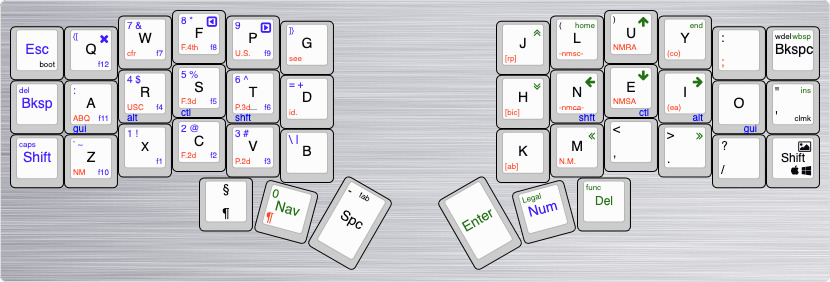
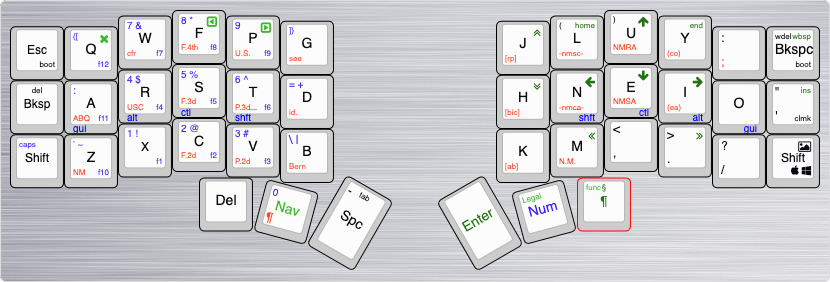
tweaks to weak thumb keys

diff --git a/keymap.c b/keymap.c
@@ -110,7 +110,7 @@ const uint16_t PROGMEM keymaps[][MATRIX_ROWS][MATRIX_COLS] = {
   //|--------+--------+--------+--------+--------+--------|                    |--------+--------+--------+--------+--------+--------|
        DZ_OSS,    KC_Z,    KC_X,    KC_C,    KC_V,    KC_B,                         KC_K,    KC_M, KC_COMM,  KC_DOT, KC_SLSH,  DZ_OSS,
   //|--------+--------+--------+--------+--------+--------+--------|  |--------+--------+--------+--------+--------+--------+--------|
-                                        PARASEC,MO(_NAV),  KC_SPC,     KC_ENT,MO(_NUM), KC_DEL
+                                           KC_DEL,MO(_NAV),  KC_SPC,     KC_ENT,MO(_NUM),PARASEC
                                       //`--------------------------'  `--------------------------'
 
   ),
@@ -123,7 +123,7 @@ const uint16_t PROGMEM keymaps[][MATRIX_ROWS][MATRIX_COLS] = {
   //|--------+--------+--------+--------+--------+--------|                    |--------+--------+--------+--------+--------+--------|
        DZ_OSS,    KC_Z,    KC_X,    KC_C,    KC_V,    KC_B,                         KC_N,    KC_M, KC_COMM,  KC_DOT, KC_SLSH, KC_MINS,
   //|--------+--------+--------+--------+--------+--------+--------|  |--------+--------+--------+--------+--------+--------+--------|
-                                           _______,MO(_NAV),  KC_SPC,     KC_ENT,MO(_NUM), _______
+                                           _______,MO(_NAV), KC_SPC,     KC_ENT,MO(_NUM), _______
                                       //`--------------------------'  `--------------------------'
 
   ),
@@ -157,9 +157,9 @@ const uint16_t PROGMEM keymaps[][MATRIX_ROWS][MATRIX_COLS] = {
   //|--------+--------+--------+--------+--------+--------|                    |--------+--------+--------+--------+--------+--------|
       XXXXXXX,  DZ_ABQ,  DZ_USC,  DZ_F3D,  DZ_P3D,  DZ_ID2,                       DZ_BIC, DZ_NMCA, DZ_NMSA,   DZ_EA, XXXXXXX, DZ_RQOT,
   //|--------+--------+--------+--------+--------+--------|                    |--------+--------+--------+--------+--------+--------|
-       DZ_OSS,  DZ_NM2, XXXXXXX,  DZ_F2D,  DZ_P2D, XXXXXXX,                       DZ_AB,   DZ_NM, XXXXXXX, XXXXXXX, XXXXXXX, DZ_EMDS,
+       DZ_OSS,  DZ_NM2, XXXXXXX,  DZ_F2D,  DZ_P2D, DZ_BERN,                       DZ_AB,   DZ_NM, XXXXXXX, XXXXXXX, XXXXXXX, DZ_EMDS,
   //|--------+--------+--------+--------+--------+--------+--------|  |--------+--------+--------+--------+--------+--------+--------|
-                                          _______, DZ_PARA, _______,    _______, _______,_______
+                                          _______, PARASEC, _______,    _______, _______,_______
                                       //`--------------------------'  `--------------------------'
   ),
 

diff --git a/dizave.c b/dizave.c
@@ -387,6 +387,12 @@ bool dizave_process_record_user(uint16_t keycode, keyrecord_t *record)
       }
       return false;
 
+    case DZ_BERN:
+      if (record->event.pressed) {
+         SEND_STRING("Bernalillo");
+      }
+      return false;
+
     case DZ_SEE:
       if (record->event.pressed) {
         if (is_mac()) {
